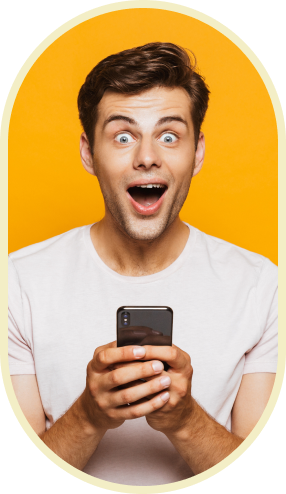
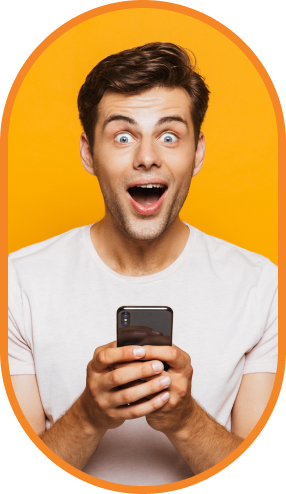
changes: redesign

Changed region(s): [[0.0, 0.0, 1.0, 1.0]]

diff --git a/app/[lang]/components/Header.tsx b/app/[lang]/components/Header.tsx
@@ -1,6 +1,6 @@
 import Image from "next/image";
 import { logo } from "@/util/images";
-import { titilliumWebSemiBold } from "@/util/fonts";
+import { titilliumWebBlack, titilliumWebSemiBold } from "@/util/fonts";
 import AppStoreButton from "./AppStoreButton";
 import PlayStoreButton from "./PlayStoreButton";
 import { Locale } from "@/i18n.config";
@@ -11,6 +11,7 @@ type headerProps = {
   header: {
     "title-normal": string;
     "title-colored": string;
+    download: string;
   };
   lang: Locale;
 };
@@ -19,26 +20,33 @@ export default function Header({ header, lang }: headerProps) {
   return (
     <header
       id="header"
-      className="xl:w-[80%] lg:w-[90%] w-full lg:py-10 sm:py-5 py-3 lg:px-16 md:px-12 px-8 flex justify-between items-center"
+      className="xl:w-[80%] w-full sm:py-5 py-3 lg:px-10 px-8 flex justify-between items-center"
     >
       <div className="flex lg:gap-5 md:gap-3 gap-1 items-center">
         <Image
           src={logo}
           alt="instawinner"
-          className="lg:w-[48px] md:w-[32px] w-[24px] lg:h-[48px] md:h-[32px] h-[24px] "
+          className="md:h-[90px] h-[70px] md:w-[90px] w-[70px]"
         />
         <span
-          className={`${titilliumWebSemiBold.className} leading-[54px] text-gray-950 lg:display-small md:headline-medium headline-small `}
+          className={`${titilliumWebSemiBold.className} sm:block hidden leading-[54px] text-gray-950  md:display-medium display-small `}
         >
           {header["title-normal"]}
-          <span className="text-[#F7413D]">{header["title-colored"]}</span>
+          <span className={`${titilliumWebBlack.className} text-[#F7413D]`}>
+            {header["title-colored"]}
+          </span>
         </span>
       </div>
       <div className="flex items-center gap-10">
         <LanguageSelector lang={lang} />{" "}
-        <div className="md:flex hidden items-center gap-5">
-          <AppStoreButton scheme="dark" />
-          <PlayStoreButton scheme="dark" />
+        <div className="lg:flex hidden flex-col justify-center items-center">
+          <span className=" headline-small lg:leading-[48px]">
+            {header.download}
+          </span>
+          <div className="flex items-center gap-5">
+            <AppStoreButton scheme="dark" />
+            <PlayStoreButton scheme="dark" />
+          </div>
         </div>
       </div>
 

diff --git a/app/[lang]/components/Count.tsx b/app/[lang]/components/Count.tsx
@@ -29,26 +29,26 @@ export default function Count({ count }: countProps) {
       </div>
       <div className="flex flex-col justify-evenly lg:gap-10 gap-5 pt-5 lg:w-5/12 w-full">
         <div className="flex 2xl:gap-16 gap-10 items-center">
-          <div className="flex flex-col lg:gap-5 w-min">
+          <div className="flex flex-col lg:gap-5 items-center w-min">
             <span
               className={`${titilliumWebBold.className} xl:text-[80px] lg:display-large display-medium text-gray-950 xl:leading-[124px] lg:leading-[100px]`}
             >
               05
             </span>
             <span
-              className={`${titilliumWebSemiBold.className} lg:headline-medium title-medium lg:leading-[36px] text-[#F7413D]`}
+              className={`${titilliumWebSemiBold.className} lg:headline-medium text-center title-medium lg:leading-[36px] text-[#F7413D]`}
             >
               {count.text1}
             </span>
           </div>
-          <div className="flex flex-col lg:gap-5 w-min">
+          <div className="flex flex-col items-center lg:gap-5 w-min">
             <span
               className={`${titilliumWebBold.className} xl:text-[80px] lg:display-large display-medium text-gray-950 xl:leading-[124px] lg:leading-[100px]`}
             >
               162
             </span>
             <span
-              className={`${titilliumWebSemiBold.className} lg:headline-medium title-medium lg:leading-[36px] text-[#F7413D]`}
+              className={`${titilliumWebSemiBold.className} lg:headline-medium text-center title-medium lg:leading-[36px] text-[#F7413D]`}
             >
               {count.text2}
             </span>
@@ -69,7 +69,7 @@ export default function Count({ count }: countProps) {
             <input
               type="submit"
               value={count["button-text"]}
-              className={`uppercase ${mulish.className} cursor-pointer lg:leading-[20px] bg-[#F7413D] lg:p-1 text-gray-50 lg:label-large label-medium w-1/3 shadow-xl`}
+              className={`uppercase ${mulish.className} cursor-pointer lg:leading-[20px] bg-[#904E9F] lg:p-1 text-gray-50 lg:label-large label-medium w-1/3 shadow-xl`}
             />
           </div>
         </div>

diff --git a/app/[lang]/components/LastSection.tsx b/app/[lang]/components/LastSection.tsx
@@ -9,6 +9,7 @@ import {
   xIcon,
 } from "../../../util/images";
 import Link from "next/link";
+import { titilliumWebBlack } from "@/util/fonts";
 
 type lastSectionProps = {
   lastSection: {
@@ -20,24 +21,32 @@ type lastSectionProps = {
 
 export default function LastSection({ lastSection }: lastSectionProps) {
   return (
-    <div className="w-full py-10 md:px-10 px-5 flex flex-col lg:gap-10 gap-5 justify-center items-center bg-[#F3EEC6]">
-      <Image src={logo} alt="instaWinner" className="h-[100px] w-[100px]" />
+    <div className="w-full py-10 md:px-10 px-5 flex flex-col md:gap-5 gap-2 justify-center items-center bg-transparent">
+      <Image
+        src={logo}
+        alt="instaWinner"
+        className="md:h-[150px] h-[100px] md:w-[150px] w-[100px]"
+      />
       <span
         className={`lg:leading-[52px] lg:display-medium md:healine-medium headline-small text-gray-950 text-center`}
       >
         {lastSection["heading-normal"]}{" "}
-        <span className="text-[#F7413D]">{lastSection["heading-styled"]}</span>
+        <span
+          className={`${titilliumWebBlack.className} text-[#F7413D] font-black`}
+        >
+          {lastSection["heading-styled"]}
+        </span>
       </span>
       <span
         className={`lg:leading-[32px] lg:headline-small md:title-medium title-small text-gray-950 text-center`}
       >
         {lastSection["sub-heading"]}
       </span>
-      <div className="flex items-center md:gap-5 gap-3 flex-wrap">
+      <div className="flex justify-center items-center md:gap-5 gap-3 flex-wrap">
         <AppStoreButton scheme="dark" />
         <PlayStoreButton scheme="dark" />
       </div>
-      <div className="flex md:gap-5 flex-wrap gap-3 items-center md:mt-0 mt-5">
+      <div className="flex md:gap-5 flex-wrap gap-3 items-center mt-5">
         <Link href="" target="_blank">
           <Image src={facebookIcon} alt="facebook" />
         </Link>

diff --git a/app/[lang]/components/About.tsx b/app/[lang]/components/About.tsx
@@ -38,7 +38,7 @@ export default function About({ about }: aboutProps) {
           {about.heading}
         </span>
         <span
-          className={` ${mulish.className} font-normal lg:body-large body-medium lg:leading-[28px] text-gray-500`}
+          className={` ${mulish.className} font-normal lg:body-large body-medium lg:leading-[28px] text-gray-950`}
         >
           {about["sub-heading"]}
         </span>
@@ -51,7 +51,7 @@ export default function About({ about }: aboutProps) {
               {about.section1.heading}
             </span>
             <span
-              className={` ${mulish.className} font-normal lg:body-large body-medium lg:leading-[28px] text-gray-500`}
+              className={` ${mulish.className} font-normal lg:body-large body-medium lg:leading-[28px] text-gray-950`}
             >
               {about.section1.body}
             </span>
@@ -64,17 +64,12 @@ export default function About({ about }: aboutProps) {
               {about.section2.heading}
             </span>
             <span
-              className={` ${mulish.className} font-normal lg:body-large body-medium  lg:leading-[28px] text-gray-500`}
+              className={` ${mulish.className} font-normal lg:body-large body-medium  lg:leading-[28px] text-gray-950`}
             >
               {about.section2.body}
             </span>
           </div>
         </div>
-        <button
-          className={` mt-5 border w-fit border-[#F7413D] text-[#F7413D] bg-transparent px-[24px] py-[12px] capitalize ${mulish.className} font-semibold label-large lg:leading-[20px] tracking-tight`}
-        >
-          {about["button-text"]}
-        </button>
       </div>
       <Image
         src={smilingGuy}

diff --git a/app/[lang]/components/HowItWorks.tsx b/app/[lang]/components/HowItWorks.tsx
@@ -1,10 +1,16 @@
 import Image from "next/image";
-import { mulish, titilliumWebSemiBold } from "@/util/fonts";
+import {
+  mulish,
+  titilliumWebBlack,
+  titilliumWebBold,
+  titilliumWebSemiBold,
+} from "@/util/fonts";
 import { app1, app2, howItWorksIcons } from "@/util/images";
 
 type howItWorksProps = {
   howItWorks: {
-    heading: string;
+    "heading-normal": string;
+    "heading-styled": string;
     content: {
       heading: string;
       body: string;
@@ -16,8 +22,15 @@ export default function HowItWorks({ howItWorks }: howItWorksProps) {
   return (
     <div className="lg:w-[80%] md:w-[90%] w-full h-auto flex flex-col justify-evenly lg:gap-16 gap-8 items-center md:px-10 px-5 py-16 ">
       <div className="flex flex-col items-center lg:gap-5 gap-2 md:w-[60%] w-full">
-        <span className="lg:display-medium display-small text-center lg:leading-[52px] text-gray-950">
-          {howItWorks.heading}
+        <span
+          className={`${titilliumWebBold.className} lg:display-medium display-small text-center lg:leading-[52px] text-gray-950`}
+        >
+          {howItWorks["heading-normal"]}{" "}
+          <span
+            className={`${titilliumWebBlack.className} uppercase text-[#F7413D]`}
+          >
+            {howItWorks["heading-styled"]}
+          </span>
         </span>
       </div>
       <div className="flex items-center ">

diff --git a/app/[lang]/page.tsx b/app/[lang]/page.tsx
@@ -26,19 +26,19 @@ export default async function Home({
         <Header header={data.header} lang={lang} />
       </div>
       <div className="relative flex justify-center items-center mt-10">
-        <div className="md:w-3/4 w-full h-full absolute left-0 top-0 md:rounded-tr-full rounded-tr-[171px] -z-[1] bg-[#66C3CA]" />
+        <div className="md:w-3/4 w-full h-full absolute left-0 top-0 md:rounded-tr-full rounded-tr-[200px] -z-[1] bg-[#66C3CA]" />
         <Hero hero={data.hero} />
       </div>
       <div className=" flex justify-center items-center">
         <Count count={data.count} />
       </div>
-      <div className="flex justify-center items-center bg-[#E7E7E7]">
+      <div className="flex justify-center items-center from-[#ffffff] to-[#F48626] bg-gradient-to-b">
         <About about={data.about} />
       </div>
       <div className="flex justify-center items-center">
         <HowItWorks howItWorks={data["how-it-works"]} />
       </div>
-      <div className="flex justify-center items-center  to-[#F7413D] from-[#FE7977] bg-gradient-to-b">
+      <div className="flex justify-center items-center  to-[#8A449A] from-[#ffffff] bg-gradient-to-b">
         <DownloadNow downloadNow={data["download-now"]} />
       </div>
       <div className="flex justify-center items-center overflow-hidden">

diff --git a/app/[lang]/components/Hero.tsx b/app/[lang]/components/Hero.tsx
@@ -1,6 +1,6 @@
 import Image from "next/image";
 import { surprisedWoman } from "@/util/images";
-import { titilliumWebBlack, titilliumWebSemiBold } from "@/util/fonts";
+import { titilliumWebBlack } from "@/util/fonts";
 
 type heroProps = {
   hero: {
@@ -12,7 +12,7 @@ type heroProps = {
 
 export default function Hero({ hero }: heroProps) {
   return (
-    <div className="lg:w-[80%] md:w-[90%] w-full h-autos flex md:flex-row flex-col-reverse md:justify-between items-center relative md:px-10 px-5 py-10 gap-10">
+    <div className="lg:w-[80%] md:w-[90%] w-full h-auto min-h-[60vh] flex md:flex-row flex-col-reverse md:justify-between items-center relative md:px-10 px-5 py-10 gap-10">
       <div className="flex flex-col lg:gap-5 gap-3">
         <span
           className={`${titilliumWebBlack.className} lg:display-large display-medium  lg:leading-[64px] leading-tight text-black`}
@@ -22,9 +22,7 @@ export default function Hero({ hero }: heroProps) {
           </span>{" "}
           {hero["heading-normal"]}
         </span>
-        <span
-          className={`${titilliumWebSemiBold.className} lg:title-large title-medium  text-black lg:leading-[28px]`}
-        >
+        <span className={` lg:headline-small title-large text-black `}>
           {hero.body}
         </span>
       </div>

diff --git a/util/images.ts b/util/images.ts
@@ -20,7 +20,11 @@ import storesIcon5 from "@/public//icons/storesIcon5.png";
 import storesIcon6 from "@/public//icons/storesIcon6.png";
 import storesIcon7 from "@/public//icons/storesIcon7.png";
 import storesIcon8 from "@/public//icons/storesIcon8.png";
-import reviewImage1 from "@/public/Ellipse 17.png";
+import reviewImage1 from "@/public/reviewImage1.webp";
+import reviewImage2 from "@/public/reviewImage2.webp";
+import reviewImage3 from "@/public/reviewImage3.webp";
+import reviewImage4 from "@/public/reviewImage4.webp";
+
 import backIcon from "@/public/icons/back.svg";
 import forwardIcon from "@/public/icons/forward.svg";
 import facebookIcon from "@/public/icons/facebook.svg";
@@ -38,13 +42,7 @@ const howItWorksIcons = [
   howItWorksIcon5,
 ];
 
-const reviewImages = [
-  reviewImage1,
-  reviewImage1,
-  reviewImage1,
-  reviewImage1,
-  reviewImage1,
-];
+const reviewImages = [reviewImage1, reviewImage2, reviewImage3, reviewImage4];
 
 const stores1Icons = [storesIcon1, storesIcon2, storesIcon3, storesIcon4];
 

diff --git a/app/[lang]/components/SwiperCards.tsx b/app/[lang]/components/SwiperCards.tsx
@@ -1,6 +1,7 @@
 import Image from "next/image";
 import Cards from "./_Swiper/Cards";
 import { backIcon, forwardIcon } from "@/util/images";
+import { titilliumWebBold } from "@/util/fonts";
 
 type swiperCardsProps = {
   swiperCards: {
@@ -17,7 +18,9 @@ export default function SwiperCards({ swiperCards }: swiperCardsProps) {
   return (
     <div className="lg:w-[80%] md:w-[90%] w-full h-auto flex flex-col lg:gap-16 md:gap-10 gap-5 justify-center items-center md:px-10 py-10 ">
       <div className="flex flex-col items-center lg:gap-5 gap-3 md:px-0 px-5">
-        <span className="lg:display-medium display-small text-center lg:leading-[52px] text-gray-950">
+        <span
+          className={`${titilliumWebBold.className} lg:display-medium display-small text-center lg:leading-[52px] text-gray-950`}
+        >
           {swiperCards.heading}
         </span>
       </div>

diff --git a/app/[lang]/components/StoresAvailable.tsx b/app/[lang]/components/StoresAvailable.tsx
@@ -1,6 +1,7 @@
 import Image from "next/image";
 import { stores1Icons, stores2Icons } from "@/util/images";
 import Marquee from "react-fast-marquee";
+import { titilliumWebBold } from "@/util/fonts";
 
 type storesAvailableProps = {
   storesAvailable: {
@@ -20,7 +21,9 @@ export default function StoresAvailable({
 }: storesAvailableProps) {
   return (
     <div className=" w-full h-auto flex flex-col gap-10 justify-center items-center py-16 md:px-10 px-5">
-      <span className="lg:display-medium display-small lg:leading-[52px] text-center w-full text-white">
+      <span
+        className={`${titilliumWebBold.className} lg:display-medium display-small lg:leading-[52px] text-center w-full text-white`}
+      >
         {storesAvailable["heading-count"]} <br className="md:hidden block" />{" "}
         {storesAvailable["heading-text"]}
       </span>

diff --git a/app/[lang]/components/DownloadNow.tsx b/app/[lang]/components/DownloadNow.tsx
@@ -11,10 +11,10 @@ type downloadNowProps = {
 
 export default function DownloadNow({ downloadNow }: downloadNowProps) {
   return (
-    <div className="lg:w-[80%] md:w-[90%] w-full h-auto min-h-[50vh] flex flex-col justify-center gap-5 py-10 md:px-10 px-6">
+    <div className="xl:w-[80%] lg:w-[90%] w-full h-auto min-h-[50vh] flex flex-col justify-center gap-5 py-10 md:px-10 px-6">
       <span className="lg:display-medium display-small lg:leading-[64px] text-black md:w-[60%] w-full">
         <span
-          className={`${titilliumWebBlack.className} text-white lg:leading-[64px] `}
+          className={`${titilliumWebBlack.className} text-[#1BA6B0] lg:leading-[64px] `}
         >
           {downloadNow["text-styled"]}
         </span>

diff --git a/app/[lang]/components/_Swiper/Cards.tsx b/app/[lang]/components/_Swiper/Cards.tsx
@@ -53,7 +53,7 @@ export default function Cards({ reviews }: cardsProps) {
               <Image
                 src={reviewImages[index]}
                 alt="reviewer"
-                className="md:w-auto w-16 h-auto"
+                className="md:w-20 w-16 md:h-20 h-16 rounded-full object-cover"
               />
               <span
                 className={`${titilliumWebSemiBold.className} text-gray-950 lg:headline-medium headline-small lg:leading-[36px] text-center`}
